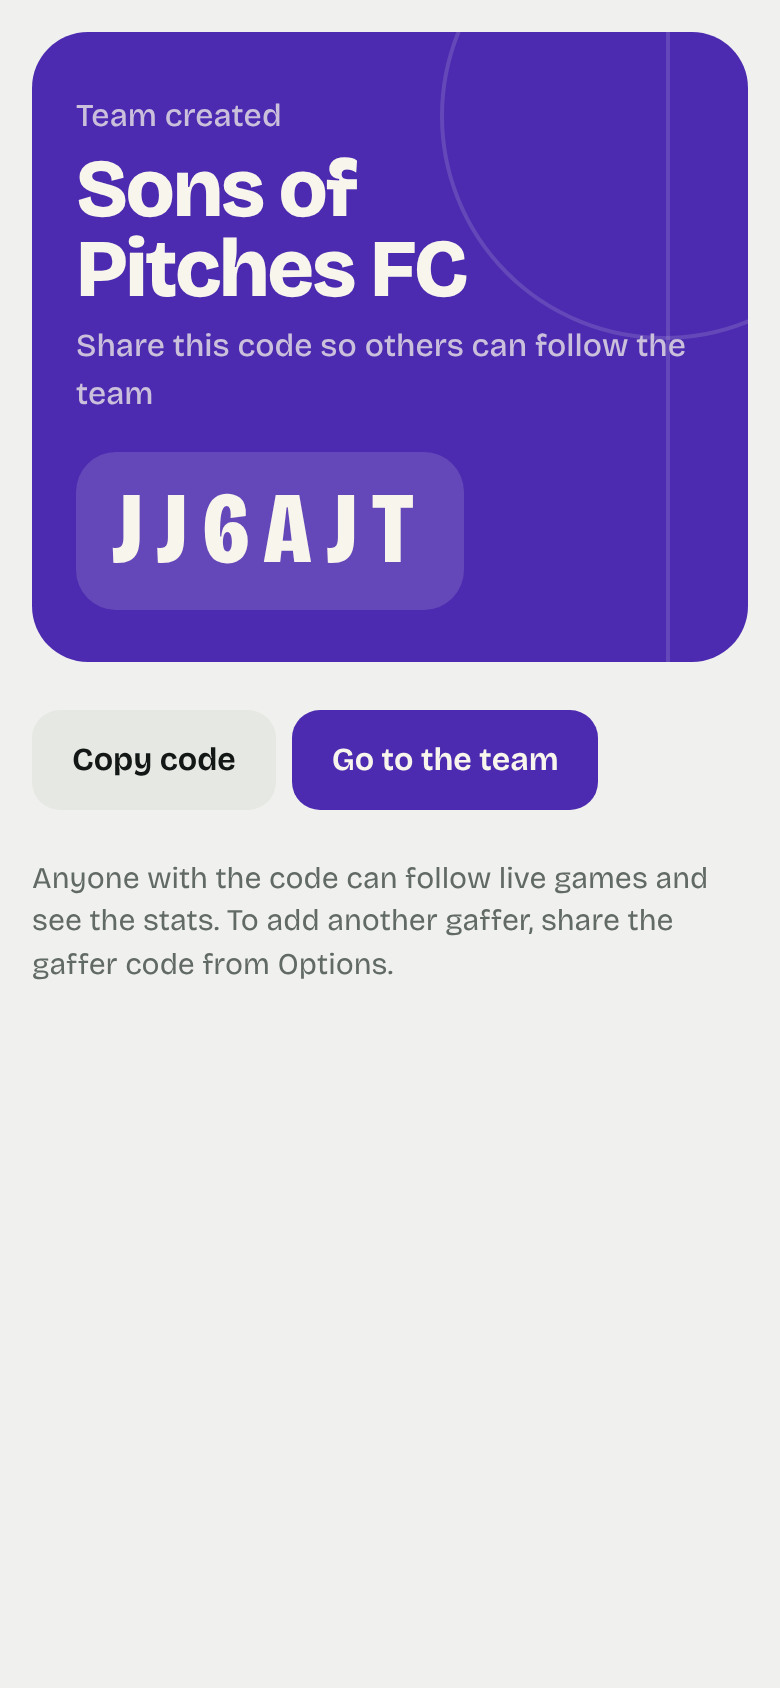
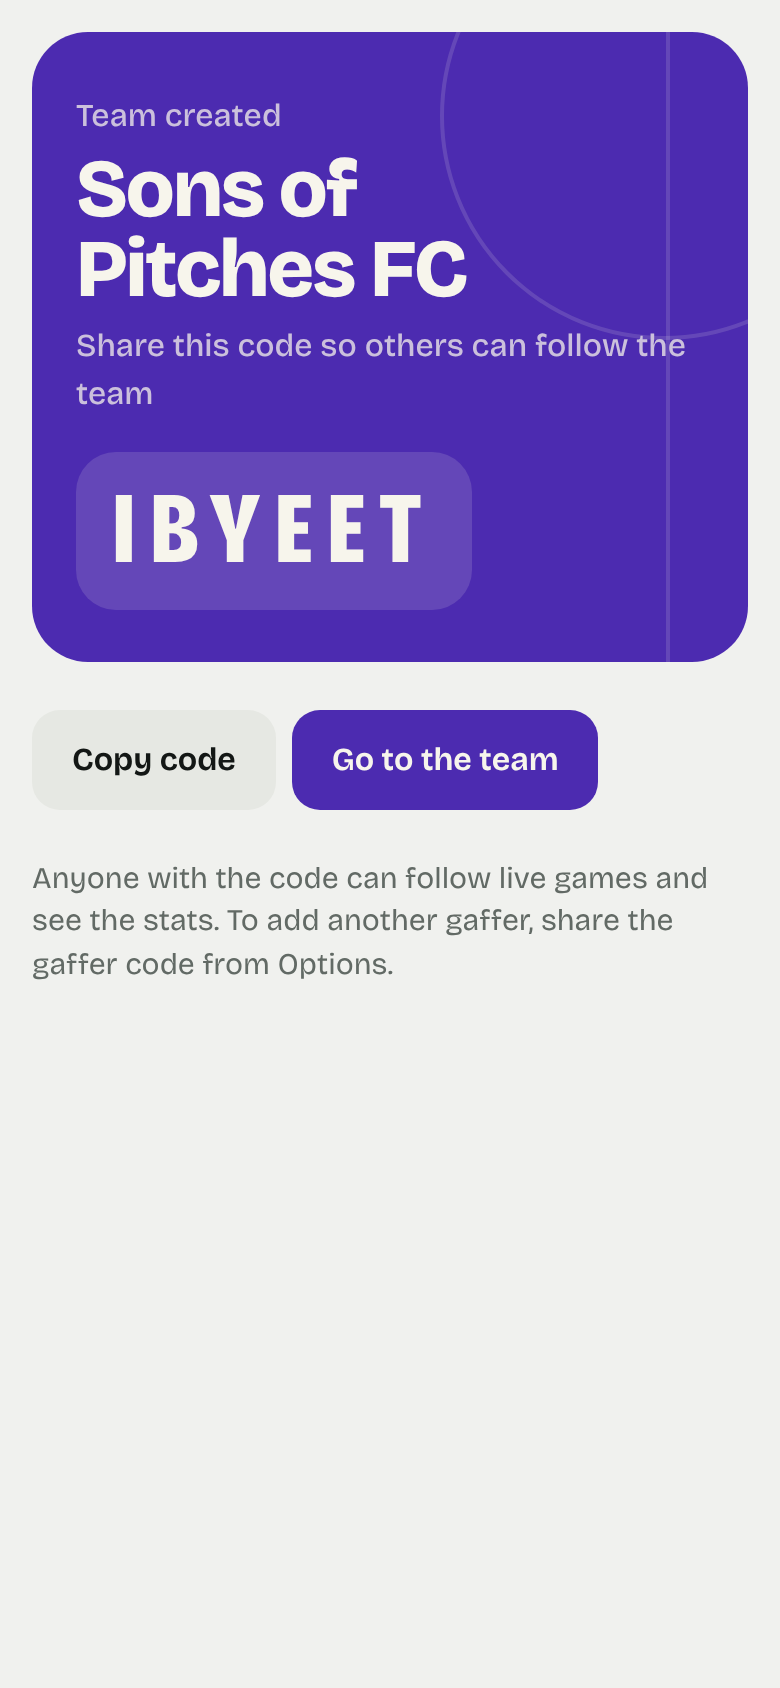
Changes wait for the gaffer: a subs pop-up and buzz on phone and watch
When a change comes due the line-up no longer switches by itself. The phone and the watch
buzz and ask; the pop-up can be closed (to log a goal, say) and the change is only made
when 'Subs done' is tapped on either, so goals in between count for whoever was really on.

Claude-Session: https://claude.ai/code/session_018bZWwoDCoJJFXny4C5guU3

Changed region(s): [[0.1231, 0.2773, 0.5231, 0.3389], [0.5846, 0.2773, 0.6154, 0.3697]]

diff --git a/index.html b/index.html
@@ -386,7 +386,10 @@ tr.past td { opacity: .45; }
 #kickPop { position: fixed; inset: 0; z-index: 50; background: rgba(0, 0, 0, .45); display: flex; align-items: flex-end; justify-content: center; padding: 16px; padding-bottom: calc(16px + env(safe-area-inset-bottom, 0px)); }
 #kickPop[hidden] { display: none; }
 #askPop { position: fixed; inset: 0; z-index: 48; background: rgba(0, 0, 0, .45); display: flex; align-items: flex-end; justify-content: center; padding: 16px; padding-bottom: calc(16px + env(safe-area-inset-bottom, 0px)); animation: fade .2s both; }
-#askPop[hidden] { display: none; } #askPop .kickbox { animation: sheet .34s cubic-bezier(.2, .9, .2, 1) both; }
+#askPop[hidden] { display: none; }
+#subPop { position: fixed; inset: 0; z-index: 44; background: rgba(0, 0, 0, .45); display: flex; align-items: flex-end; justify-content: center; padding: 16px; padding-bottom: calc(16px + env(safe-area-inset-bottom, 0px)); animation: fade .2s both; }
+#subPop[hidden] { display: none; } #subPop .kickbox { position: relative; animation: sheet .34s cubic-bezier(.2, .9, .2, 1) both; }
+.subx { position: absolute; top: 10px; right: 10px; width: 44px; height: 44px; border: 0; border-radius: 50%; background: var(--fill); color: var(--ink); font-size: 26px; line-height: 1; } #askPop .kickbox { animation: sheet .34s cubic-bezier(.2, .9, .2, 1) both; }
 .chatlist { display: flex; flex-direction: column; gap: 10px; min-height: 40vh; }
 .cmsg { display: flex; flex-direction: column; gap: 3px; align-items: flex-start; max-width: 86%; } .cmsg.mine { align-self: flex-end; align-items: flex-end; }
 .cmsg > small { color: var(--muted); font-size: 12px; padding-inline: 6px; }
@@ -688,6 +691,8 @@ body.tabbed { padding-bottom: calc(78px + env(safe-area-inset-bottom, 0px)); }
     <li>Supports the developer</li></ul></div>
   <p>Early access: everything is unlocked for now.</p>
   <div class="actions"><button class="plain primary" id="planOk" type="button">Got it</button></div></div></div>
+<div id="subPop" role="alertdialog" aria-labelledby="subPopTitle" hidden><div class="kickbox"><button class="subx" id="subPopLater" type="button" aria-label="Not yet">&times;</button><p id="subPopTitle">Time for subs</p><div id="subPopBody"></div>
+  <div class="actions"><button class="plain primary" id="subPopDone" type="button">Subs done</button></div><p class="note">Close this if something’s happening on the pitch. The change waits until you tap Subs done.</p></div></div>
 <div id="askPop" role="alertdialog" aria-labelledby="askText" hidden><div class="kickbox"><p id="askText"></p>
   <div class="actions"><button class="plain primary" id="askYes" type="button">Yes</button><button class="plain" id="askNo" type="button">Not now</button></div></div></div>
 <div id="kickPop" role="alertdialog" aria-labelledby="kickPopText" hidden><div class="kickbox"><p id="kickPopText"></p>
@@ -1476,12 +1481,30 @@ body.tabbed { padding-bottom: calc(78px + env(safe-area-inset-bottom, 0px)); }
     return r;
   }
   function elapsed(m) { return m.base + (m.running ? Date.now() - m.t0 : 0); } // keeps running into added time until the half is ended by hand
-  function curSeg(m) {
+  function clockSeg(m) { // the block the clock says the game is in
     if (m.phase === 'pre') return 0;
     if (m.phase === 'ft') return m.segs.length - 1;
     var h = m.phase === 'h1' ? 0 : 1, e = m.phase === 'ht' ? 0 : elapsed(m) / 60000, cur = -1;
     for (var i = 0; i < m.segs.length; i++) if (m.segs[i].h === h && m.segs[i].from <= e) cur = i;
     return cur < 0 ? 0 : cur;
+  }
+  // The block actually being played. A change doesn't happen by the clock alone: once it's due, the line-up stays as it was
+  // until the gaffer says the subs have been made (m.ok is the last block confirmed). Blocks where nobody swaps pass by themselves.
+  function curSeg(m) {
+    var c = clockSeg(m);
+    if (m.ok == null || (m.phase !== 'h1' && m.phase !== 'h2') || c <= m.ok) return c;
+    var i = Math.max(0, m.ok);
+    while (i < c) {
+      if (m.segs[i + 1].h !== m.segs[i].h) { i++; continue; }
+      var a = onPitch(m, i), b = onPitch(m, i + 1);
+      if (a.length === b.length && a.every(function (id) { return b.indexOf(id) >= 0; })) { i++; continue; }
+      break;
+    }
+    return i;
+  }
+  function subDue(m) { // the block whose change is waiting to be made, or -1
+    if (!m || m.ok == null || (m.phase !== 'h1' && m.phase !== 'h2')) return -1;
+    var e = curSeg(m); return e < clockSeg(m) ? e + 1 : -1;
   }
   function onPitch(m, i) { var s = m.segs[i]; return (s.gk != null ? [s.gk] : []).concat(s.on); }
   function swapAt(m, to) { // who changes when segment `to` starts
@@ -1564,6 +1587,7 @@ body.tabbed { padding-bottom: calc(78px + env(safe-area-inset-bottom, 0px)); }
     if ((view === 'reel' || view === 'season' || view === 'cut') && (S.view === 'stats' || S.view === 'highlights')) reelBack = S.view;
     if (view === 'cut' && !CUT) view = 'highlights';
     if (pick && view !== 'game') { pick = null; $('picker').innerHTML = ''; }
+    if (view !== 'game') $('subPop').hidden = true;
     if (view === 'soon' && !(A.exp && A.exp.track)) view = A.active ? 'home' : 'welcome';
     if (view === 'join' && !J) view = A.active ? 'home' : 'welcome';
     if (!A.active && ['intro', 'welcome', 'join', 'create', 'account'].indexOf(view) < 0) view = 'welcome';
@@ -2817,7 +2841,7 @@ body.tabbed { padding-bottom: calc(78px + env(safe-area-inset-bottom, 0px)); }
   });
 
   // ---- game
-  var lastBlock = -1, pick = null, outPick = null;
+  var lastBlock = -1, pick = null, outPick = null, lastDue = -1, subAsk = false;
   function renderClock() {
     var m = S.match; if (!m) return;
     var i = curSeg(m), s = m.segs[i], e = elapsed(m), live = m.phase === 'h1' || m.phase === 'h2';
@@ -2829,7 +2853,7 @@ body.tabbed { padding-bottom: calc(78px + env(safe-area-inset-bottom, 0px)); }
     else {
       var first = !one && (m.phase === 'pre' || m.phase === 'h1'), added = live && !sameHalf && e >= halfMs(m);
       $('count').textContent = added ? '+' + fmt2(e - halfMs(m)) : fmt(target - (live ? e : 0));
-      $('countLabel').textContent = added ? 'Added time, until the ' + (first ? 'half-time' : 'final') + ' whistle'
+      $('countLabel').textContent = subDue(m) >= 0 ? 'Change due: make the subs' : added ? 'Added time, until the ' + (first ? 'half-time' : 'final') + ' whistle'
         : sameHalf ? (live ? 'Until the next change' : 'Until the first change') : (first ? 'Until half time' : 'Until full time');
     }
     $('go').textContent = m.phase === 'pre' ? 'Kick off' : m.phase === 'ht' ? 'Start 2nd half' : m.phase === 'ft' ? 'Full time' : m.running ? 'Pause' : 'Resume';
@@ -2859,14 +2883,16 @@ body.tabbed { padding-bottom: calc(78px + env(safe-area-inset-bottom, 0px)); }
     if (!hasBench(m)) { title = 'No changes'; body = '<p class="note">Nobody is on the bench, so there are no subs to make.</p>'; }
     else if (t < 0) { title = m.phase === 'ht' ? 'No change at half time' : 'No more changes'; body = '<p class="note">' + (m.phase === 'ht' ? 'The same line-up starts the second half.' : 'This line-up finishes the game.') + '</p>'; }
     else {
-      title = m.phase === 'ht' ? 'Change now, for the second half' : m.segs[t].h !== m.segs[cb].h ? 'Next change at half time' : 'Next change at ' + m.segs[t].from + ':00';
+      var dueNow = subDue(m) === t;
+      title = m.phase === 'ht' ? 'Change now, for the second half' : dueNow ? 'Make this change now' : m.segs[t].h !== m.segs[cb].h ? 'Next change at half time' : 'Next change at ' + m.segs[t].from + ':00';
       var tap = function (list, cls) { // the gaffer can tap a name to change who it is
         if (role !== 'owner') return chips(m, list, cls);
         return list.map(function (id) { return '<button class="chip tapchip ' + cls + '" type="button" data-q="' + cls + '" data-id="' + id + '" data-t="' + t + '">' + esc(nm(id)) + '</button>'; }).join('') || '<span class="note">Nobody</span>';
       };
       body = '<div class="swap-rows"><div class="tag off">Off</div><div class="chips">' + tap(sw.off, 'off') +
              '</div><div class="tag on">On</div><div class="chips">' + tap(sw.on, 'on') + '</div></div>' +
-             (role === 'owner' ? '<p class="note">Tap a name to swap in someone else.</p>' : '');
+             (role === 'owner' ? '<p class="note">Tap a name to swap in someone else.</p>' : '') +
+             (dueNow ? (role === 'owner' ? '<div class="actions"><button class="plain primary" type="button" id="subsDoneBtn">Subs done</button></div><p class="note">The line-up below stays as it is until you tap this.</p>' : '<p class="note">Waiting for the gaffer to make the change.</p>') : '');
     }
     $('swapTitle').textContent = title; $('swapBody').innerHTML = body;
 
@@ -2878,8 +2904,11 @@ body.tabbed { padding-bottom: calc(78px + env(safe-area-inset-bottom, 0px)); }
     $('rota').innerHTML = html;
     var gm = gameMins(m), ids = (m.squad || []).slice().sort(function (x, y) { return gm[y] - gm[x]; });
     $('minsNote').textContent = ids.length ? 'Minutes today: ' + ids.map(function (id) { return nm(id) + ' ' + gm[id] + (m.gone.indexOf(id) >= 0 ? ' (out)' : ''); }).join(', ') + '.' : '';
-    renderOut(); renderEdit(); renderQuick(); renderScore(); renderClock(); syncAlerts();
+    renderOut(); renderEdit(); renderQuick(); renderScore(); renderClock(); renderSubPop(); syncAlerts();
   }
+  $('swapBody').addEventListener('click', function (e) { if (e.target.id === 'subsDoneBtn') subsDone(); });
+  $('subPopDone').addEventListener('click', subsDone);
+  $('subPopLater').addEventListener('click', function () { subAsk = false; renderSubPop(); });
 
   // ---- edit upcoming subs: swap a pitch player (A) and a bench player (B) for stretch t, then swap them back in the
   // earliest later stretch where that is possible, so both end the game on the minutes they were planned.
@@ -3133,7 +3162,7 @@ body.tabbed { padding-bottom: calc(78px + env(safe-area-inset-bottom, 0px)); }
       var sw = swapAt(m, i); if (!sw.on.length && !sw.off.length) continue;
       changes.push({ h: m.segs[i].h, from: m.segs[i].from, on: sw.on.map(nm), off: sw.off.map(nm) });
     }
-    return { live: true, team: teamShort(), opp: m.opp, us: t.us, them: t.them, phase: m.phase, running: !!m.running, base: m.base || 0, t0: m.t0 || 0, half: m.half, periods: m.periods === 1 ? 1 : 2, lockUntil: lockUntil, changes: changes,
+    return { live: true, due: subDue(m) >= 0, team: teamShort(), opp: m.opp, us: t.us, them: t.them, phase: m.phase, running: !!m.running, base: m.base || 0, t0: m.t0 || 0, half: m.half, periods: m.periods === 1 ? 1 : 2, lockUntil: lockUntil, changes: changes,
       players: pickOrder(m).map(function (id) { return { id: id, name: nm(id), on: on.indexOf(id) >= 0, gk: id === m.segs[cb].gk }; }) };
   }
   function watchPush() {
@@ -3153,6 +3182,7 @@ body.tabbed { padding-bottom: calc(78px + env(safe-area-inset-bottom, 0px)); }
     if (ev.id) watchSeen[ev.id] = 1;
     var ok = function (v) { return typeof v === 'number' && m.squad.indexOf(v) >= 0 ? v : null; };
     if (ev.type === 'goal') { pick = null; addGoal(stamped(m, stripNull({ us: !!ev.us, p: ev.us ? ok(ev.p) : null, a: ev.us ? ok(ev.a) : null }))); }
+    else if (ev.type === 'subs') subsDone();
     else if (ev.type === 'hl' && m.phase !== 'pre') { m.events.push(stamped(m, stripNull({ hl: true, p: myPid != null && m.squad.indexOf(myPid) >= 0 ? myPid : null, watch: true, at: Date.now() }))); save(); if (S.view === 'game') renderScore(); }
   }
   function watchDrain() {
@@ -3222,12 +3252,27 @@ body.tabbed { padding-bottom: calc(78px + env(safe-area-inset-bottom, 0px)); }
   function tick() {
     var m = S.match; if (!m || !m.running) return;
     if (!m.et && elapsed(m) >= halfMs(m)) { m.et = true; if (role === 'owner') { save(); beep(4); } } // time is up; the clock carries on as added time
-    var cb = curSeg(m);
-    if (cb !== lastBlock) {
-      var sw = swapAt(m, cb);
-      if (lastBlock >= 0 && (sw.off.length || sw.on.length)) beep(3);
-      lastBlock = cb; renderGame();
-    } else renderClock();
+    var cb = curSeg(m), due = subDue(m);
+    if (due !== lastDue) { // a change has just come due: buzz and ask, but don't make it until someone says it's done
+      lastDue = due;
+      if (due >= 0) { beep(3); subAsk = role === 'owner'; }
+      else subAsk = false;
+      lastBlock = cb; renderGame(); watchPush();
+    } else if (cb !== lastBlock) { lastBlock = cb; renderGame(); }
+    else renderClock();
+  }
+  function subsDone() { // the gaffer says the players have swapped
+    var m = S.match, due = subDue(m); if (!m || role !== 'owner' || due < 0) return;
+    m.ok = due; subAsk = false; lastBlock = curSeg(m); lastDue = subDue(m);
+    if (lastDue >= 0) subAsk = true; // the one after is already due as well
+    save(); renderGame(); watchPush();
+  }
+  function renderSubPop() {
+    var m = S.match, due = subDue(m), el = $('subPop');
+    if (!m || due < 0 || !subAsk || role !== 'owner' || S.view !== 'game') { el.hidden = true; return; }
+    var sw = swapAt(m, due);
+    $('subPopBody').innerHTML = '<div class="swap-rows"><div class="tag off">Off</div><div class="chips">' + chips(m, sw.off, 'off') + '</div><div class="tag on">On</div><div class="chips">' + chips(m, sw.on, 'on') + '</div></div>';
+    el.hidden = false;
   }
   setInterval(tick, 250);
 
@@ -3240,7 +3285,8 @@ body.tabbed { padding-bottom: calc(78px + env(safe-area-inset-bottom, 0px)); }
     if (m.phase === 'pre' || m.phase === 'ht') { m.phase = m.phase === 'pre' ? 'h1' : 'h2'; m.base = 0; m.t0 = Date.now(); m.running = true; beep(1); }
     else if (m.running) { m.base = elapsed(m); m.running = false; }
     else { m.t0 = Date.now(); m.running = true; }
-    lastBlock = curSeg(m); wake(); save(); renderGame();
+    if (m.ok == null || kicked || m.phase === 'h2' && m.segs[m.ok] && m.segs[m.ok].h === 0) m.ok = clockSeg(m);
+    lastBlock = curSeg(m); lastDue = subDue(m); wake(); save(); renderGame();
     if (kicked) announceGame(m);
   });
   armed($('reset'), 'Sure?', function () { var m = S.match; if (!m) return; m.phase = 'pre'; m.running = false; m.base = 0; m.et = false; delete m.koAt; delete m.htAt; delete m.h2At; delete m.ftAt; lastBlock = -1; save(); renderGame(); });

diff --git a/ios/App/Watch/ContentView.swift b/ios/App/Watch/ContentView.swift
@@ -67,6 +67,16 @@ struct MatchView: View {
                 }
                 .frame(minHeight: WKInterfaceDevice.current().screenBounds.height * 0.78)
 
+                if state.due {
+                    Button {
+                        model.askSubs = true
+                    } label: {
+                        Label("Subs due", systemImage: "arrow.left.arrow.right").frame(maxWidth: .infinity)
+                    }
+                    .buttonStyle(.borderedProminent)
+                    .tint(.orange)
+                }
+
                 Changes(state: state)
                     .id("changes")
 
@@ -117,9 +127,50 @@ struct MatchView: View {
             if model.demoPage == 3 { path = [.scorer] }
         }
         }
+        .sheet(isPresented: $model.askSubs) {
+            SubsSheet(state: state)
+        }
         .confirmationDialog("Goal for \(state.opp)?", isPresented: $confirmThem, titleVisibility: .visible) {
             Button("Log the goal") { model.goal(us: false, scorer: nil, assist: nil) }
             Button("Cancel", role: .cancel) {}
+        }
+    }
+}
+
+/// Shown when a change comes due. Closing it leaves the change waiting; "Subs done" makes it.
+struct SubsSheet: View {
+    @EnvironmentObject var model: MatchModel
+    let state: MatchState
+
+    var body: some View {
+        ScrollView {
+            VStack(alignment: .leading, spacing: 8) {
+                Text("Time for subs").font(.headline)
+                if let change = state.changes.first {
+                    if !change.off.isEmpty {
+                        Text("Off").font(.caption2.weight(.bold)).foregroundStyle(.orange)
+                        Text(change.off.joined(separator: ", ")).font(.body.weight(.semibold))
+                    }
+                    if !change.on.isEmpty {
+                        Text("On").font(.caption2.weight(.bold)).foregroundStyle(.green)
+                        Text(change.on.joined(separator: ", ")).font(.body.weight(.semibold))
+                    }
+                }
+                Button {
+                    model.subsDone()
+                } label: {
+                    Text("Subs done").frame(maxWidth: .infinity)
+                }
+                .buttonStyle(.borderedProminent)
+                .tint(.green)
+                Button {
+                    model.askSubs = false
+                } label: {
+                    Text("Not yet").frame(maxWidth: .infinity)
+                }
+            }
+            .frame(maxWidth: .infinity, alignment: .leading)
+            .padding(.horizontal, 4)
         }
     }
 }

diff --git a/ios/App/Watch/MatchModel.swift b/ios/App/Watch/MatchModel.swift
@@ -29,6 +29,7 @@ struct MatchState: Codable, Equatable {
     }
 
     var live: Bool
+    var due: Bool = false       // the first change in `changes` is waiting to be made
     var team: String = ""
     var opp: String = ""
     var us: Int = 0
@@ -46,6 +47,7 @@ struct MatchState: Codable, Equatable {
     init(from decoder: Decoder) throws {
         let c = try decoder.container(keyedBy: CodingKeys.self)
         live = (try? c.decode(Bool.self, forKey: .live)) ?? false
+        due = (try? c.decode(Bool.self, forKey: .due)) ?? false
         team = (try? c.decode(String.self, forKey: .team)) ?? ""
         opp = (try? c.decode(String.self, forKey: .opp)) ?? ""
         us = (try? c.decode(Int.self, forKey: .us)) ?? 0
@@ -74,6 +76,7 @@ final class MatchModel: NSObject, ObservableObject, WCSessionDelegate {
     @Published var state: MatchState?
     @Published var locked = false
     @Published var note = ""
+    @Published var askSubs = false   // the "time for subs" sheet is showing
 
     private var unlock: DispatchWorkItem?
     private var clearNote: DispatchWorkItem?
@@ -117,7 +120,14 @@ final class MatchModel: NSObject, ObservableObject, WCSessionDelegate {
                     decoded.them = max(decoded.them, hold.them)
                 }
             }
+            let wasDue = self.state?.due ?? false
             self.state = decoded
+            if decoded.live && decoded.due && !wasDue { // a change has just come due: tap the wrist and ask
+                WKInterfaceDevice.current().play(.notification)
+                self.askSubs = true
+            } else if !decoded.due || !decoded.live {
+                self.askSubs = false
+            }
             let left = decoded.lockUntil / 1000 - Date().timeIntervalSince1970
             if left > 0 { self.lock(for: min(left, 8)) }
         }
@@ -207,5 +217,12 @@ final class MatchModel: NSObject, ObservableObject, WCSessionDelegate {
 
     func highlight() {
         send(["type": "hl"])
+    }
+
+    /// The players have swapped: tell the phone, and stop asking here straight away.
+    func subsDone() {
+        askSubs = false
+        if var shown = state { shown.due = false; if !shown.changes.isEmpty { shown.changes.removeFirst() }; state = shown }
+        send(["type": "subs"])
     }
 }

diff --git a/sw.js b/sw.js
@@ -1,6 +1,6 @@
 // Offline support: keep the app shell on the phone so it opens with no signal at the pitch.
 // Team data is stored by the app itself and syncs with Supabase when there's a connection.
-const CACHE = 'apt-v31';
+const CACHE = 'apt-v32';
 const SHELL = ['./', 'index.html', 'config.js', 'manifest.webmanifest', 'icons/icon-192.png', 'icons/icon-512.png', 'icons/apple-touch-icon.png',
   'vendor/supabase.js', 'vendor/fonts.css', 'vendor/fonts/BricolageGrotesque.woff2', 'privacy.html'];
 
